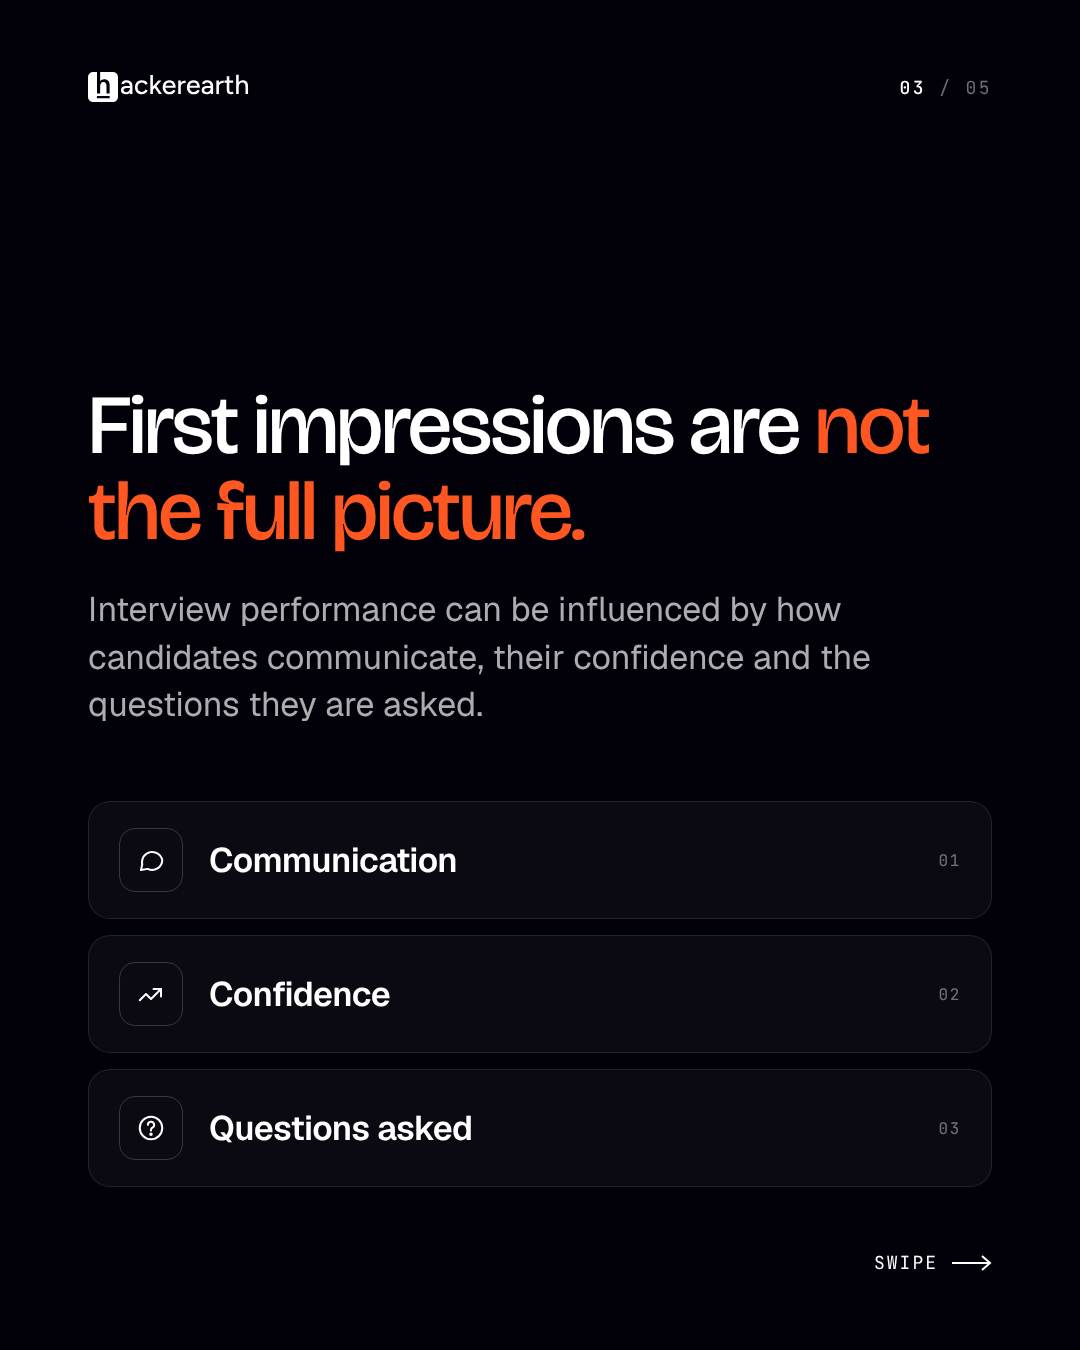
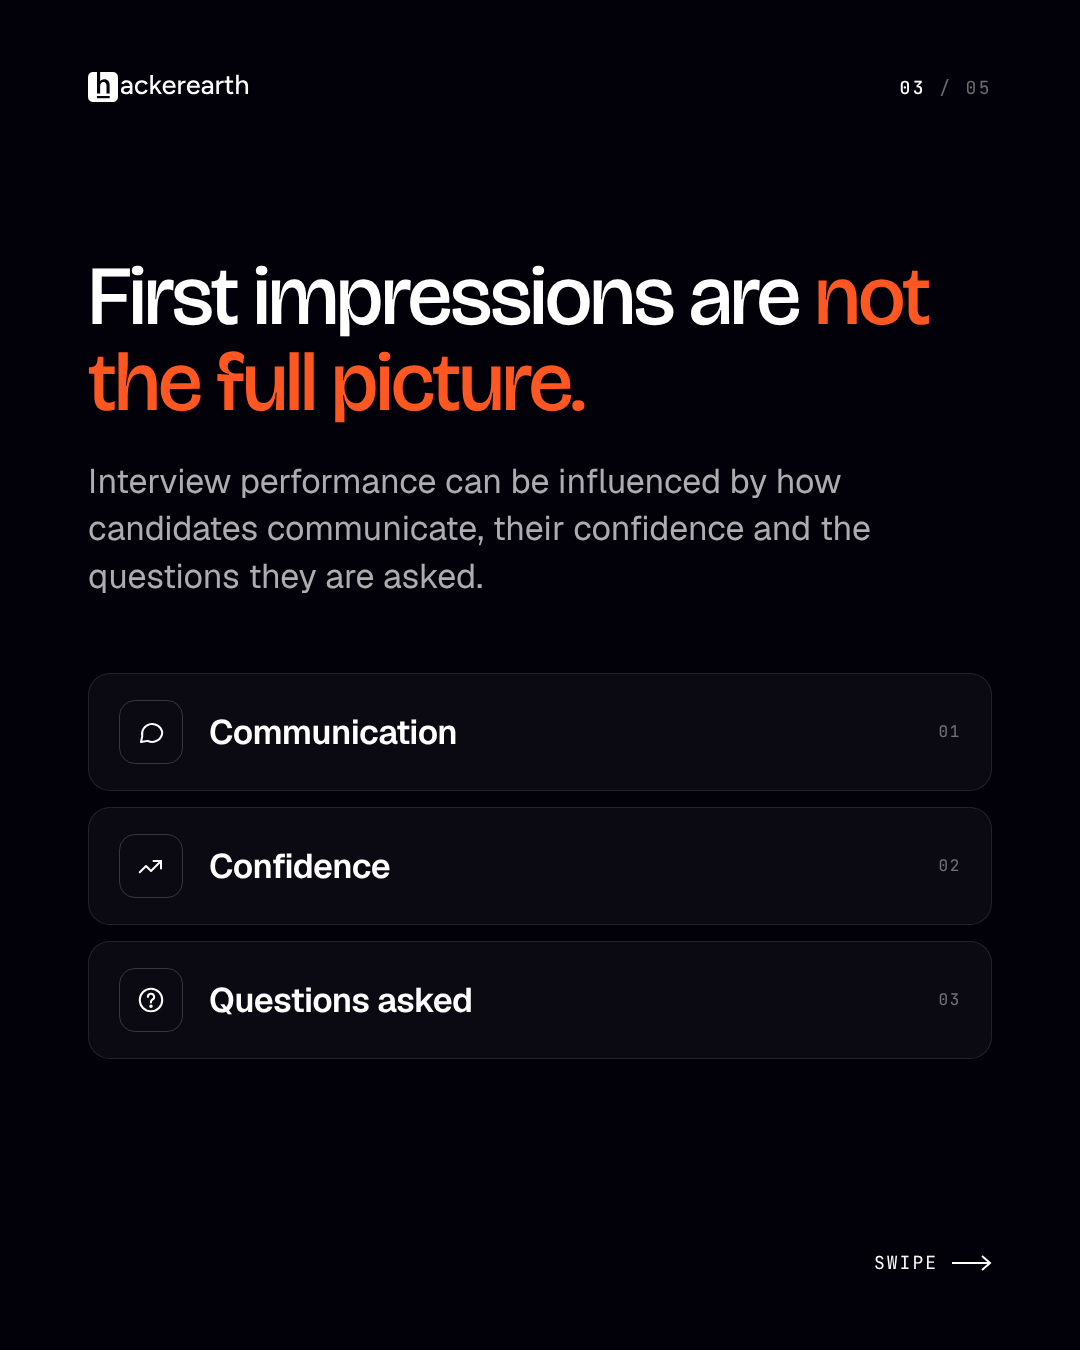
Hiring carousel: centre slide 2 and 3 content vertically
Claude-Session: https://claude.ai/code/session_011WvSfd7jShGBWHTo2t24v1

diff --git a/instagram-carousels/hiring-missing-something/carousel.html b/instagram-carousels/hiring-missing-something/carousel.html
@@ -68,9 +68,9 @@
   .s1 .lead { margin-top: 24px; font-size: 36px; }
   .s1 .foot { margin-top: 0; padding-top: 56px; }
 
-  /* Slides 2–3: text + visual block sits lower, just above the footer */
+  /* Slides 2–3: text + visual block centred between top bar and footer */
   .s2 h2, .s3 h2 { margin-top: auto; }
-  .s2 .foot, .s3 .foot { margin-top: 0; padding-top: 64px; }
+  .s2 .foot, .s3 .foot { margin-top: auto; padding-top: 40px; }
 
   /* ----- Slide 2 · Two candidates ----- */
   .pair { display: grid; grid-template-columns: 1fr 1fr; gap: 20px; }
